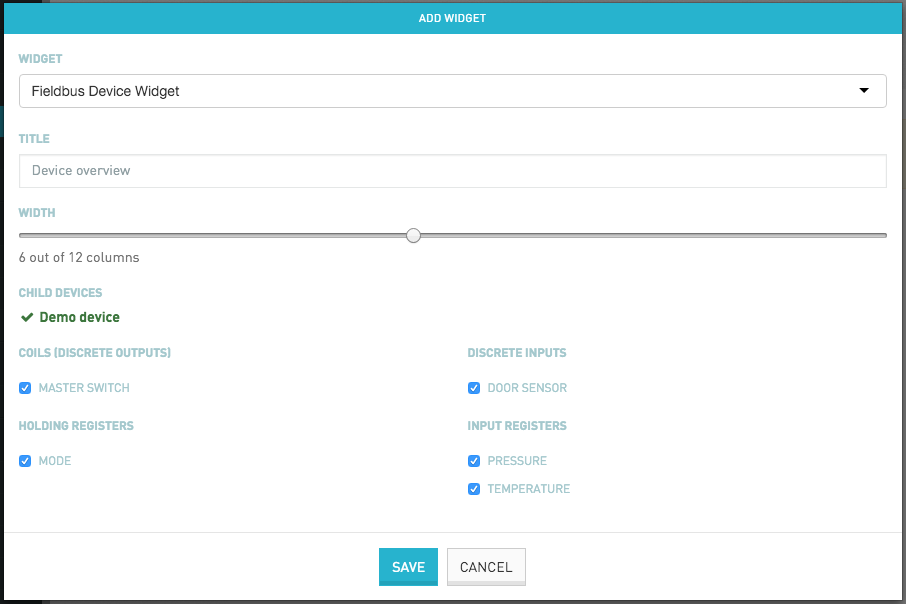
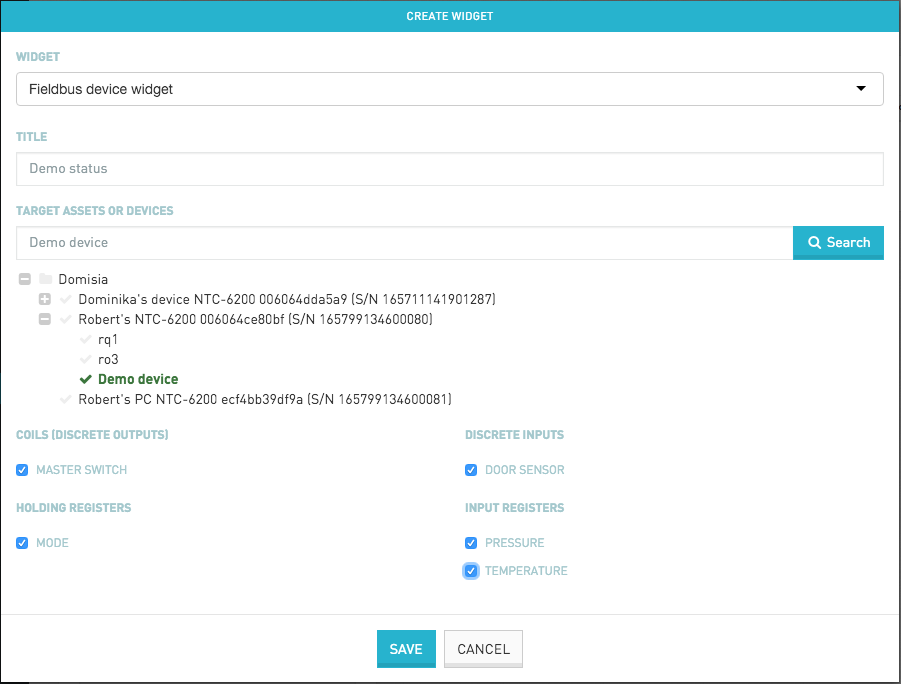
Added documentation for the SCADA widget

Changed region(s): [[0.0, 0.0, 1.0, 1.0], [0.4972, 0.6258, 0.6215, 0.8642]]

diff --git a/src/documents/guides/users-guide/cloud-fieldbus.html.md b/src/documents/guides/users-guide/cloud-fieldbus.html.md
@@ -68,7 +68,6 @@ Once connected, you can now manage your device. Click "Child devices" on a termi
 * [Send alarms on coil or register changes](#alarms).
 * [Log coil and register changes as events](#logging).
 * [Monitor the status of coils and registers](#status).
-* [Configure the device](#configuration).
 
 ### <a name="collect"></a>Collecting measurements
 
@@ -90,25 +89,47 @@ Similar to alarms, changes in Modbus devices can be monitored and logged as even
 
 ![Modbus events](/guides/users-guide/modbusevents.png)
 
-### <a name="status"></a>Monitoring status
+### <a name="status"></a>Monitoring device status 
 
-The status of a device can be monitored in the Cockpit application by adding the "Fieldbus device widget" to the dashboard. To do so:
+The status of devices can be monitored in real-time using dashboard widgets in the Cockpit application. Navigate to the Cockpit application, create a dashboard or report, and add widgets as described in the [Cockpit user's guide](/guides/users-guide/cockpit). Cloud Fieldbus adds two new widgets: The "Fieldbus Device" widget and the "SCADA" widget.
 
-* Navigate to the Cockpit application, create a group and add the device to the group as described in the [Cockpit user's guide](/guides/users-guide/cockpit#adding-groups).
-* Create a dashboard and select "Add widget to dashboard".
+### Monitoring device status using the Fieldbus Device widget
+
+The Fieldbus Device widget provides you with a tabular display of the status of a device. The status of the device can also be modified through the widget. To use the Fieldbus Device widget,
+
+* Select a dashboard and click "Add widget to dashboard" using the cogwheel on the top right.
 * Select the "Fieldbus Device Widget" and edit the title of the widget.
 * Choose the device that should be shown in the widget in the "Target assets or devices" section.
 * Select the coils and registers that should be shown on the widget.
 
 ![Adding the Fieldbus Device Widget](/guides/users-guide/modbusedit.png)
 
-In the widget, the selected coils and registers are grouped into display categories as configured in the device type. All values shown in the Fieldbus Device Widget update automatically as soon as there is new data available. You do not need to click reload.
+In the widget, the selected coils and registers are grouped into display categories as configured in the device type. The Fieldbus Device Widget updates automatically as soon as there is new data available. You do not need to click reload.
 
 ![Use the Fieldbus Device Widget](/guides/users-guide/modbusstatus.png)
 
-### <a name="configuration"></a>Configuring devices
-
 Registers and coils that can be changed are represented by active widgets. For example, in the screenshot above, the "Master switch" coil and the "Mode" register are editable. If you click a switch, an operation to change the corresponding coil or register is sent to the terminal. Similar, if you change a value and click "Set", an operation is created. The terminal will then carry out the configuration change on the device, as requested through the operation. While the operation is being processed, a progress indicator is shown.
+
+### Monitoring status using the SCADA widget
+
+The SCADA widget provides you with a graphical representation of the status of a device. To use the SCADA widget:
+
+* Select a dashboard and click "Add widget to dashboard" using the cogwheel on the top right.
+* Select the "SCADA" widget and edit the title of the widget.
+* Choose the device that should be shown in the widget in the "Target assets or devices" section.
+* Upload an SVG file with the graphical representation of the device. SVG files are vector graphics that have to be specifically prepared with placeholders for the status information. See "[Preparing SVG files for the SCADA widget](#scadasvg)" below.
+
+![Adding the SCADA Widget](/guides/users-guide/scadaedit.png)
+
+After the upload, the placeholders in the SVG file are shown in a list. You now need to assign each placeholder to a property of the device. 
+
+* Hover over each placeholder and select the "Assign device property" button or the "Assign fieldbus property" button.
+* This will pop up a dialog box that allows you to choose basic device properties or fieldbus properties (i.e., status coils and registers). Select a property and click "Select".
+* After assigning all placeholders, a preview of the widget with the current values of the properties is shown.
+* Click "Save" to place the widget on the dashboard.
+
+![Assigning properties](/guides/users-guide/scadaassign.png)
+
 
 ## <a name="configure"></a>Configuring Modbus device types
 
@@ -167,4 +188,15 @@ To export a device type, hover over the device type that you would like to expor
 To import a device type, click the "Import" link. This will open a dialog that lets you choose between importing a ready-made device type and uploading a previously exported device type. You can change the name of the device type during import using the "New device type name" field.
 
 ![Import device type](/guides/users-guide/fieldbusimport.png)
+
+## <a name="scadasvg"></a>Preparing SVG files for the SCADA widget
+
+The SCADA widgets inspects uploaded SVG files for placeholders. These placeholders are replaced by actual values from devices. Placeholders have a specific syntax and can be used anywhere in the SVG file. To add a placeholder, enter the name of the placeholder in double curly braces using your design application or a text editor. This is an example of a text element containing a placeholder "batteryValue", taken from our [sample SVG file](/guides/users-guide/scadademo.svg):
+
+	<text class="text" xt-anchor="middle" x="100" y="236.982125" width="200" ...>
+		{{batteryValue}}
+	</text>
+
+
+
 
